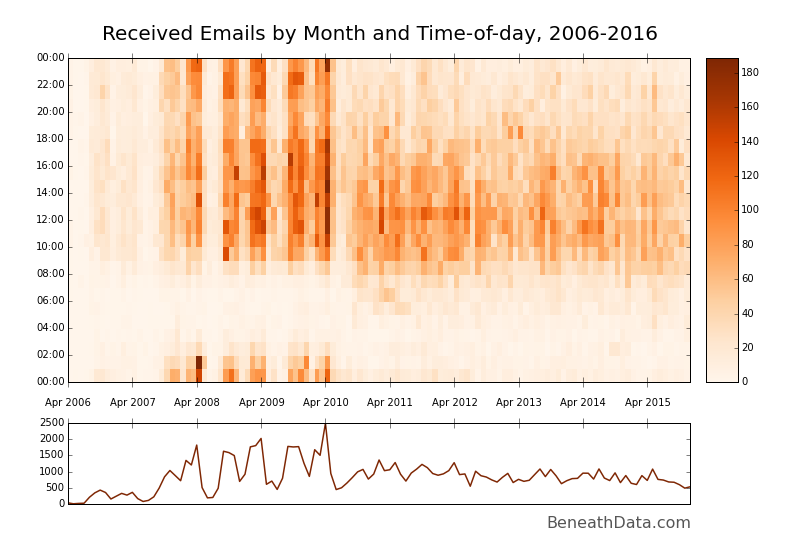
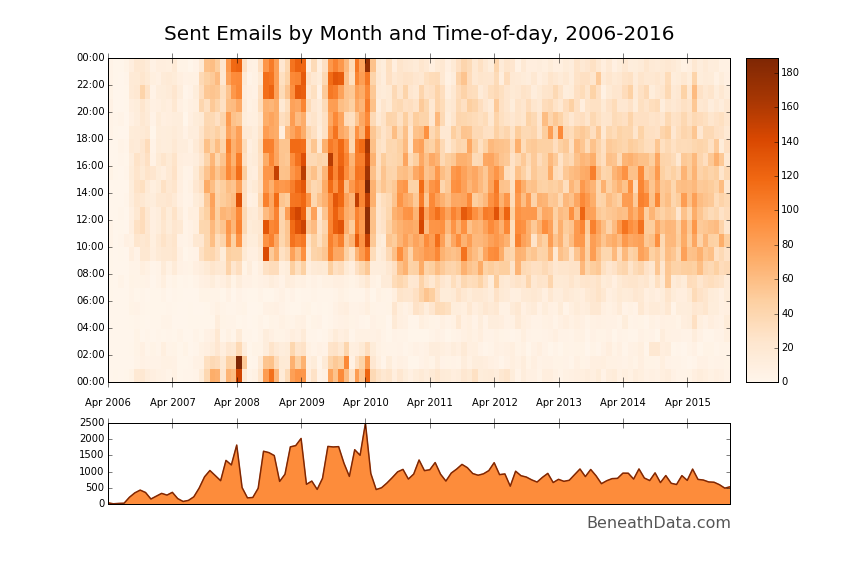
More WIP, updated graph images

diff --git a/content/4 - Email Data.md b/content/4 - Email Data.md
@@ -272,6 +272,7 @@ While we're at it, let's add a line plot of total emails received per month belo
 ax2 = plt.subplot(gs[2])
 total_email = df.groupby(level=0).hour.count()
 plt.plot_date(total_email.index, total_email, '-', linewidth=1.5, color=cm(0.999))
+ax2.fill_between(total_email.index, 0, total_email, color=cm(0.5))
 
 ax2.xaxis.tick_top()
 out = ax2.set_xticks(total_email.index[::12])
@@ -293,12 +294,15 @@ A similar but slightly different story. You can totally see my wakeup time gradu
 <br>
 ## Step 3: Go further
 
+There's a million more things we can learn from this dataset. Let's try a couple quick ones.
+
 ### Monthly distinct contacts
 
-These graphs show pretty clearly that the amount of email I send and receive has been steadily declining for the past few years (at least in my personal account). But, has the number of people I contact been decreasing too? This should be a piece of cake with `nunique`:
+The heatamps we made show pretty clearly that the amount of email I send and receive has been steadily declining for the past few years (at least in my personal account). But, has the number of people I contact been decreasing, too? This should be a piece of cake with `nunique`:
 
 ```python
-# Save off your sent and received email DataFrames separately first...
+# Save off your sent and received email DataFrames separately first (received_df and sent_df)
+# Group by your index (Months, remember)
 r = received_df.groupby(level=0)
 s = sent_df.groupby(level=0)
 ax = r['from'].nunique().plot(color=plt.get_cmap('Oranges')(0.999), label='From')
@@ -309,7 +313,9 @@ plt.legend()
 
 <img src='/images/gmail/num_unique.png' width='550px' alt='Number unique emails'/>
 
-To my surprise, the number of people emailing me has held preeety steady over the last 5 years. However, I email a good bit fewer people. I wonder if I've filled that gap with texting and Snapchat...
+To my surprise, the number of people emailing me has held preeety steady over the last 5 years. However, I email a good bit fewer people. I wonder if I've filled that gap with texting and Snapchat...but of course, this analysis doesn't include people I've `cc`'d. 
+
+
 
 ### Most frequently contacted
 
@@ -319,11 +325,11 @@ Another great question: who do I contact the most, and who contacts me? Now that
 df['from'].value_counts().head()
 ```
 
-However, this method has a few legitimate problems - it treats each name and email as unique, when the same person could have any number of email addresses. Without solving the problem of unifying name changes, we can at least count by name alone, ignoring email.[ref]Let's hope you don't have multiple friends with the same name![/ref] An optimal solution would be to leverage the [Google Contacts API](https://developers.google.com/google-apps/contacts/v3/?hl=en) and merge different email addresses that way, but that's probably for another blog post.
+However, this method has a few legitimate problems - it treats each name + email as unique when the same person could have any number of email addresses. Without solving the problem of unifying different name formats (Bob Smith, Bob J. Smith, Robert Smith), we can at least count by name and ignore email address.[ref]Let's hope you don't have multiple friends with the same name![/ref] An optimal solution would be to leverage the [Google Contacts API](https://developers.google.com/google-apps/contacts/v3/?hl=en) and merge different email addresses that way, but that's probably for another blog post.
 
 ```python
 def clean_name(fromname):
-    return fromname.split('<')[0].strip().replace('"', '')
+    return fromname.split('<')[0].strip().replace('"', '').replace('\n', '')
 
 df['from_name'] = df['from'].map(clean_name)
 df['from_name'].value_counts()[:6]
@@ -341,14 +347,12 @@ Bryan Nichols           913
 Hi, guys! 
 
 
-
 One interesting thing I gleaned from this exercise is learning that I communicate with my friends via email _way_ more than I did in college...I think I just used to _see_ people more often and consequently planning a dinner or a watch party didn't require a 37 chain email where we try and coordinate everyone's schedules. 
 
 
 
 
 TODO
-* fix email
 * fix share buttons (where'd they go!?)
 * figure out if publishing an edit triggers rss
 
